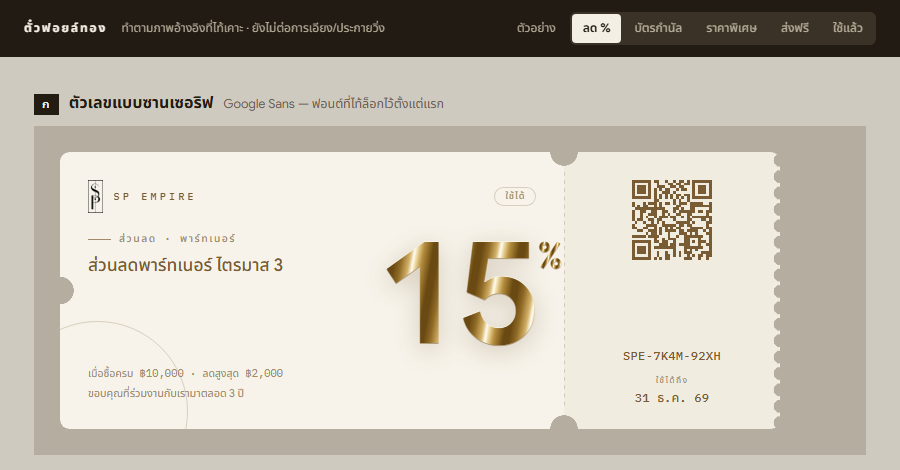
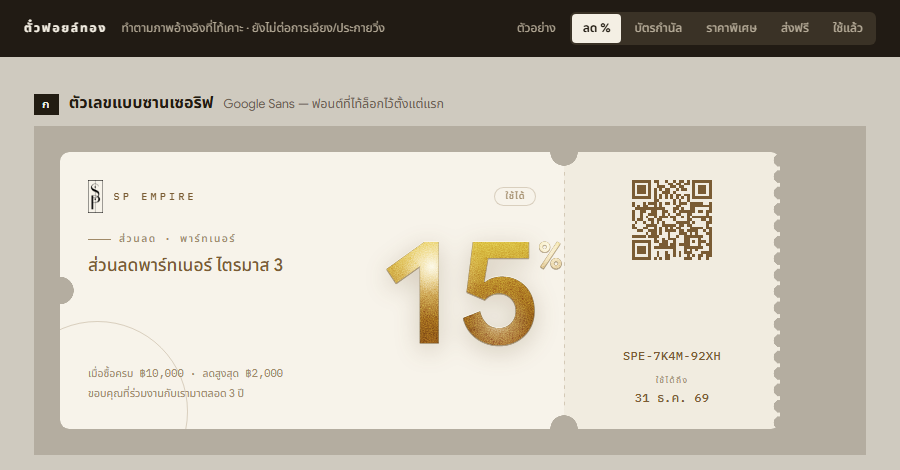
design: the highlight is a moving glint now, not a diagonal streak
Tie's note: prettier, but the light reads as a diagonal band, and at rest the
gold sits too bright and too pale. Both come from the same cause — the highlight
was a linear gradient sweeping the whole glyph, so it was never a light source,
just a lighter region, and it lifted the base tone everywhere at once.

The sweep is gone. There are two radial spots instead, a main one and a smaller
trailing one, and the base gold underneath is now deep. All the brightness comes
from the spots, which is what makes them read as light landing on metal rather
than as shading. Spot centres are expressed as a percentage of each element's
own box, so the same two variables place a correctly-scaled glint on the giant
numeral and on the small currency marks without any separate maths.

The glint travels opposite to the tilt — lean the right edge in and it slides
left. Following the tilt instead feels wrong immediately, even to someone not
looking for it.

Texture strength raised on request: amplitude 17 to 27. That figure has now been
wrong in both directions (34 was blotchy like mould, 17 was barely there), so
the history is recorded next to the constant.

Verified by driving the tilt library's update directly rather than through the
animation loop, which does not run while the preview pane is hidden — an earlier
reading of "no movement" was that, not a bug. Pointer at the top-left puts the
spot at 88.6/87.0, at the bottom-right it moves to 8.4/12.0, both axes tracking.
[…]

Changed region(s): [[0.4356, 0.5064, 0.6222, 0.7447]]

diff --git a/src/styles/designs/foilticket.css b/src/styles/designs/foilticket.css
@@ -24,9 +24,7 @@
   --ft-line: rgba(122, 92, 52, 0.24);
 
   /* ฟอยล์ทอง — ไล่จากบรอนซ์เข้มในร่อง ไปเกือบขาวตรงสัน แล้วกลับลงเข้มอีก
-     ตำแหน่งไล่เฉดผูกกับ --ft-shift ซึ่งตัวเอียงการ์ดจะเป็นคนขยับ
-     (ยังไม่ต่อ ตอนนี้อยู่นิ่งที่ 50%) */
-  --ft-shift: 50%;
+     ตำแหน่งดวงแสงผูกกับ --ft-spot-x / --ft-spot-y ซึ่งตัวเอียงการ์ดเป็นคนขยับ */
   /* ⚠ ความ "เป็นโลหะ" มาจากการมีแถบสว่าง-มืดหลายแถบพาดผ่านตัวอักษรพร้อมกัน
      ไม่ได้มาจากสีทองสวย ๆ · ถ้ายืดแผ่นฟอยล์กว้างเกิน ในตัวเลขจะเหลือแถบเดียว
      แล้วมันจะดูเป็น "ตัวหนังสือสีน้ำตาลทอง" เฉย ๆ ไม่ใช่ฟอยล์
@@ -43,14 +41,41 @@
      ชั้นล่าง = ไล่เฉดทองอ่อน ๆ ไล่อยู่ในโทนทองล้วน ไม่มีน้ำตาลเข้ม ไม่มีขาว
        มีแถบสว่างกว้าง ๆ แถบเดียว = แสงที่วิ่งตามการเอียง                      */
   --ft-foil-tex: url('../../../assets/textures/foil-grain.webp');
+
   /* ชั้นกลาง = ความกลมของเส้น (หัวเส้นรับแสง ก้นเส้นตกเงา) — เทา 128 คือ "ไม่เปลี่ยน" */
   --ft-foil-round: linear-gradient(
     177deg, #c4c4c4 0%, #a6a6a6 22%, #808080 46%, #6d6d6d 72%, #5c5c5c 100%
   );
+
+  /* ⚠ พื้นทองต้อง "เข้ม" ไว้ก่อน — ไท้ทักว่าตอนไม่เอียงมันสว่างและซีดเกินไป
+     ความสว่างต้องมาจากดวงแสงที่วิ่งไปมาเท่านั้น ไม่ใช่มาจากพื้น
+     ถ้าพื้นสว่างอยู่แล้ว ดวงแสงจะไม่มีอะไรให้ตัด กลายเป็นทองซีดทั้งตัว */
   --ft-foil-grad: linear-gradient(
-    100deg,
-    #9d6f1c 0%, #ba8a26 13%, #d8ae4a 29%, #efd88f 43%, #fbedbb 50%,
-    #e7c96f 58%, #ca9a34 73%, #ac7f20 88%, #96691a 100%
+    172deg, #cb9d35 0%, #bb8a2b 40%, #a87720 74%, #b6842a 100%
+  );
+
+  /* ── ดวงแสง ────────────────────────────────────────────────────────────
+     ⚠ เดิมเป็นแถบสว่างพาดทแยงทั้งตัวอักษร ไท้ทักว่าอยากได้เป็น "ดวง"
+        แถบยาวอ่านเป็นการไล่เฉด ส่วนดวงกลมอ่านเป็น "แสงตกกระทบจุดหนึ่ง" ซึ่งคือโลหะ
+     ตำแหน่งเป็น % ของกล่องตัวอักษรเอง → ใช้ค่าเดียวกันได้ทั้งตัวเลขใหญ่และ ฿ %
+        โดยไม่ต้องคำนวณแยก แต่ละตัวจะได้ดวงของตัวเองในสัดส่วนเดียวกัน
+     2 ดวง (ดวงหลัก + ดวงรองเล็กกว่า) เพราะฟอยล์จริงมักรับแสงมากกว่าจุดเดียว     */
+  --ft-spot-x: 34%;
+  --ft-spot-y: 26%;
+  --ft-spot-r: calc(var(--vk-u) * 3.2);
+  --ft-foil-spot: radial-gradient(
+    circle var(--ft-spot-r) at var(--ft-spot-x) var(--ft-spot-y),
+    rgba(255, 253, 242, 0.95) 0%,
+    rgba(255, 246, 214, 0.72) 26%,
+    rgba(253, 233, 173, 0.34) 55%,
+    rgba(250, 224, 155, 0) 100%
+  );
+  --ft-foil-spot2: radial-gradient(
+    circle calc(var(--ft-spot-r) * 0.62)
+      at calc(var(--ft-spot-x) + 42%) calc(var(--ft-spot-y) + 46%),
+    rgba(255, 250, 232, 0.7) 0%,
+    rgba(252, 236, 186, 0.36) 40%,
+    rgba(248, 224, 158, 0) 100%
   );
 
   --ft-mono: 'IBM Plex Mono', 'Noto Sans Thai', ui-monospace, monospace;
@@ -261,11 +286,18 @@
   letter-spacing: -0.04em;
 
   /* ฟอยล์: ผิวหยาบทับไล่เฉดทอง แล้วฉลุทั้งสองชั้นตามรูปตัวอักษร */
-  background-image: var(--ft-foil-tex), var(--ft-foil-round), var(--ft-foil-grad);
-  background-size: 76px 76px, 100% 100%, 200% 100%;
-  background-position: 0 0, 0 0, var(--ft-shift) 50%;
-  background-repeat: repeat, no-repeat, no-repeat;
-  background-blend-mode: overlay, overlay, normal;
+  background-image:
+    var(--ft-foil-tex),
+    var(--ft-foil-spot),
+    var(--ft-foil-spot2),
+    var(--ft-foil-round),
+    var(--ft-foil-grad);
+  background-size: 76px 76px, 100% 100%, 100% 100%, 100% 100%, 100% 100%;
+  background-position: 0 0;
+  background-repeat: repeat, no-repeat, no-repeat, no-repeat, no-repeat;
+  /* ดวงแสงใช้ normal + ความโปร่ง เพราะคุมได้ตรงไปตรงมา — screen จะฟุ้งจนขาวโพลน
+     ผิวฟอยล์อยู่บนสุดจึงพาดผ่านดวงแสงด้วย เหมือนผิวจริงที่ยังเห็นเนื้อแม้ตรงที่สะท้อน */
+  background-blend-mode: overlay, normal, normal, overlay, normal;
   -webkit-background-clip: text;
   background-clip: text;
   color: transparent;
@@ -297,11 +329,18 @@
   top: 0.06em;
   font-family: var(--ft-num); font-weight: 600;
   font-size: calc(var(--vk-u) * 2.3); line-height: 1;
-  background-image: var(--ft-foil-tex), var(--ft-foil-round), var(--ft-foil-grad);
-  background-size: 76px 76px, 100% 100%, 200% 100%;
-  background-position: 0 0, 0 0, var(--ft-shift) 50%;
-  background-repeat: repeat, no-repeat, no-repeat;
-  background-blend-mode: overlay, overlay, normal;
+  background-image:
+    var(--ft-foil-tex),
+    var(--ft-foil-spot),
+    var(--ft-foil-spot2),
+    var(--ft-foil-round),
+    var(--ft-foil-grad);
+  background-size: 76px 76px, 100% 100%, 100% 100%, 100% 100%, 100% 100%;
+  background-position: 0 0;
+  background-repeat: repeat, no-repeat, no-repeat, no-repeat, no-repeat;
+  /* ดวงแสงใช้ normal + ความโปร่ง เพราะคุมได้ตรงไปตรงมา — screen จะฟุ้งจนขาวโพลน
+     ผิวฟอยล์อยู่บนสุดจึงพาดผ่านดวงแสงด้วย เหมือนผิวจริงที่ยังเห็นเนื้อแม้ตรงที่สะท้อน */
+  background-blend-mode: overlay, normal, normal, overlay, normal;
   -webkit-background-clip: text;
   background-clip: text;
   color: transparent;

diff --git a/src/ui/foil-tilt.js b/src/ui/foil-tilt.js
@@ -6,7 +6,7 @@
  * และเล็ก (~9KB) ไม่พึ่งอะไรเลย
  *
  * สิ่งที่ไฟล์นี้ทำเพิ่มจากไลบรารี:
- *   1. เอาองศาที่กำลังเอียงไปขยับตำแหน่งแผ่นฟอยล์ (--ft-shift)
+ *   1. เอาองศาที่กำลังเอียงไปขยับตำแหน่งดวงแสง (--ft-spot-x / --ft-spot-y)
  *      → ประกายวิ่งตามการเอียงจริง ไม่ใช่แอนิเมชันวนลูปที่วิ่งเองไม่สนใจอะไร
  *   2. ขอสิทธิ์ไจโรบน iOS ให้ (ไลบรารีไม่ได้ทำให้)
  *
@@ -86,14 +86,21 @@ export async function attachFoilTilt(card, opt = {}) {
      ตัวใบเอียงด้วยการ์ดจอ (แทบไม่กินแรง) แต่การเลื่อนแผ่นฟอยล์ต้องวาดตัวเลขใหม่
      จึงกันไม่ให้สั่งวาดถี่เกินจำเป็น: ขยับไม่ถึงครึ่งเปอร์เซ็นต์ = ข้ามไปเลย
      ตาคนมองไม่เห็นความต่างระดับนั้นอยู่แล้ว แต่ช่วยลดการวาดได้เยอะบนมือถือ */
-  let last = -999;
+  let lastX = -999;
+  let lastY = -999;
   const onTilt = (e) => {
-    const p = e.detail?.percentageX;
-    if (typeof p !== 'number') return;
-    const v = lo + (p / 100) * (hi - lo);
-    if (Math.abs(v - last) < 0.5) return;
-    last = v;
-    card.style.setProperty('--ft-shift', `${v.toFixed(1)}%`);
+    const px = e.detail?.percentageX;
+    const py = e.detail?.percentageY;
+    if (typeof px !== 'number' || typeof py !== 'number') return;
+    /* แสงตกกระทบสวนทางกับการเอียง — เอียงขอบขวาเข้าหาตัว ดวงแสงวิ่งไปทางซ้าย
+       นี่คือสิ่งที่ตาคาดหวังจากของจริง ถ้าวิ่งตามทางเดียวกันจะรู้สึกผิดทันที */
+    const x = hi - (px / 100) * (hi - lo);
+    const y = hi - (py / 100) * (hi - lo);
+    if (Math.abs(x - lastX) < 0.5 && Math.abs(y - lastY) < 0.5) return;
+    lastX = x;
+    lastY = y;
+    card.style.setProperty('--ft-spot-x', `${x.toFixed(1)}%`);
+    card.style.setProperty('--ft-spot-y', `${y.toFixed(1)}%`);
   };
   card.addEventListener('tiltChange', onTilt);
 
@@ -101,7 +108,8 @@ export async function attachFoilTilt(card, opt = {}) {
     destroy() {
       card.removeEventListener('tiltChange', onTilt);
       card.vanillaTilt?.destroy();
-      card.style.removeProperty('--ft-shift');
+      card.style.removeProperty('--ft-spot-x');
+      card.style.removeProperty('--ft-spot-y');
     },
   };
 }

diff --git a/demo/design-foil.html b/demo/design-foil.html
@@ -59,9 +59,9 @@ import { cardHtml } from '../src/ui/voucher-design.js';
 import { createVoucher } from '../src/index.js';
 import { attachFoilTilt, requestGyro } from '../src/ui/foil-tilt.js';
 
-/* ?shift=NN ตรึงตำแหน่งประกายไว้ที่ค่าเดียว — ใช้ตอนแคปหน้าจอเทียบว่าประกายขยับจริง
-   ปกติ (ไม่ใส่) ประกายจะวิ่งตามเมาส์/การเอียงเครื่อง */
-const FIXED = new URLSearchParams(location.search).get('shift');
+/* ?spot=x,y ตรึงตำแหน่งดวงแสงไว้ที่จุดเดียว — ใช้ตอนแคปหน้าจอเทียบว่าดวงแสงขยับจริง
+   ปกติ (ไม่ใส่) ดวงแสงจะวิ่งตามเมาส์/การเอียงเครื่อง */
+const FIXED = new URLSearchParams(location.search).get('spot');
 
 const SAMPLES = {
   percent: { code: 'SPE-7K4M-92XH', kind: 'percent', value: 15,
@@ -108,8 +108,13 @@ function paint() {
     </section>`).join('');
 
   for (const card of document.querySelectorAll('.vk-card')) {
-    if (FIXED !== null) card.style.setProperty('--ft-shift', `${FIXED}%`);
-    else attachFoilTilt(card);
+    if (FIXED !== null) {
+      const [x, y = x] = FIXED.split(',');
+      card.style.setProperty('--ft-spot-x', `${x}%`);
+      card.style.setProperty('--ft-spot-y', `${y}%`);
+    } else {
+      attachFoilTilt(card);
+    }
   }
 }
 

diff --git a/tools/make-foil-grain.py b/tools/make-foil-grain.py
@@ -45,8 +45,9 @@ mix = 0.22 * ridge + 0.55 * grain + 0.52 * speck
 mix = (mix - mix.mean()) / (mix.std() + 1e-9)
 
 # แปลงเป็นภาพเทารอบ ๆ 128 — โหมดผสมแบบ overlay ใช้ 128 = "ไม่เปลี่ยนอะไร"
-# ⚠ ±34 แรงเกินไป ตัวเลขดูสกปรก · ±17 ให้ความรู้สึก "ผิวมีเนื้อ" โดยไม่กินสีทอง
-img = np.clip(128 + mix * 17, 0, 255).astype(np.uint8)
+# ประวัติการปรับ: ±34 แรงไปจนดูเป็นลายด่าง · ±17 จางไปจนแทบไม่เห็นผิว
+# ±27 = ไท้ขอ "ชัดขึ้นอีกนิด" — เห็นเนื้อฟอยล์ชัดแต่ยังไม่กลืนสีทอง
+img = np.clip(128 + mix * 27, 0, 255).astype(np.uint8)
 
 out = Image.fromarray(img, mode='L')
 out.save('D:/Gift vocher/assets/textures/foil-grain.webp', format='WEBP', quality=82, method=6)
